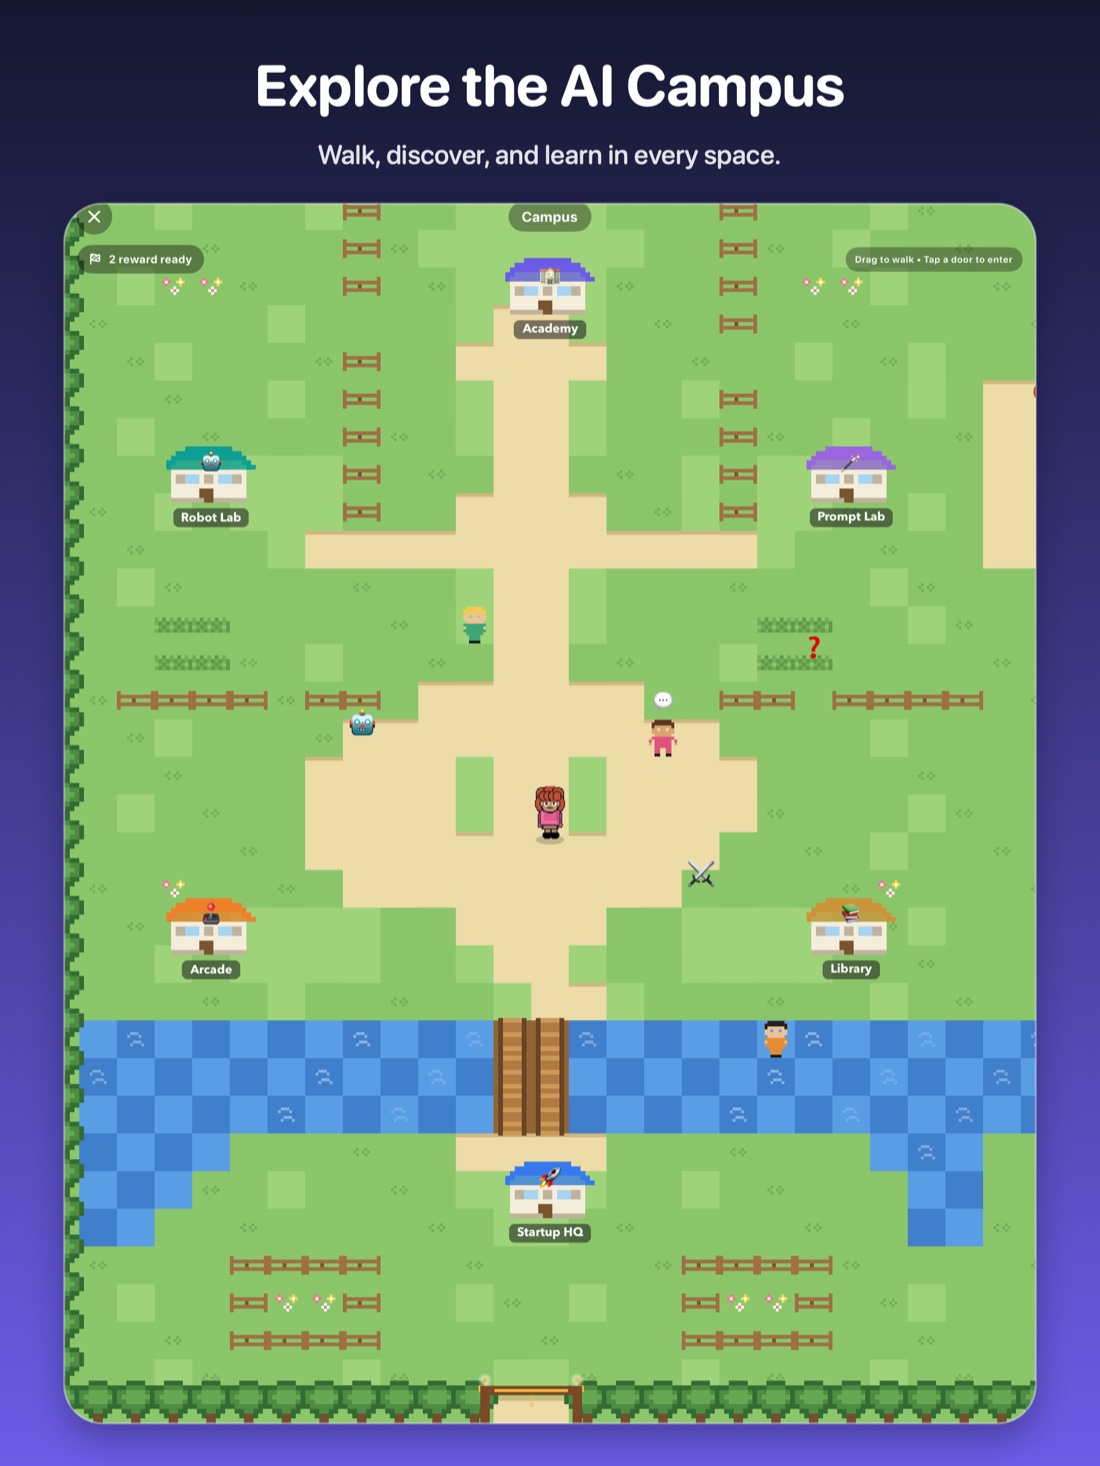
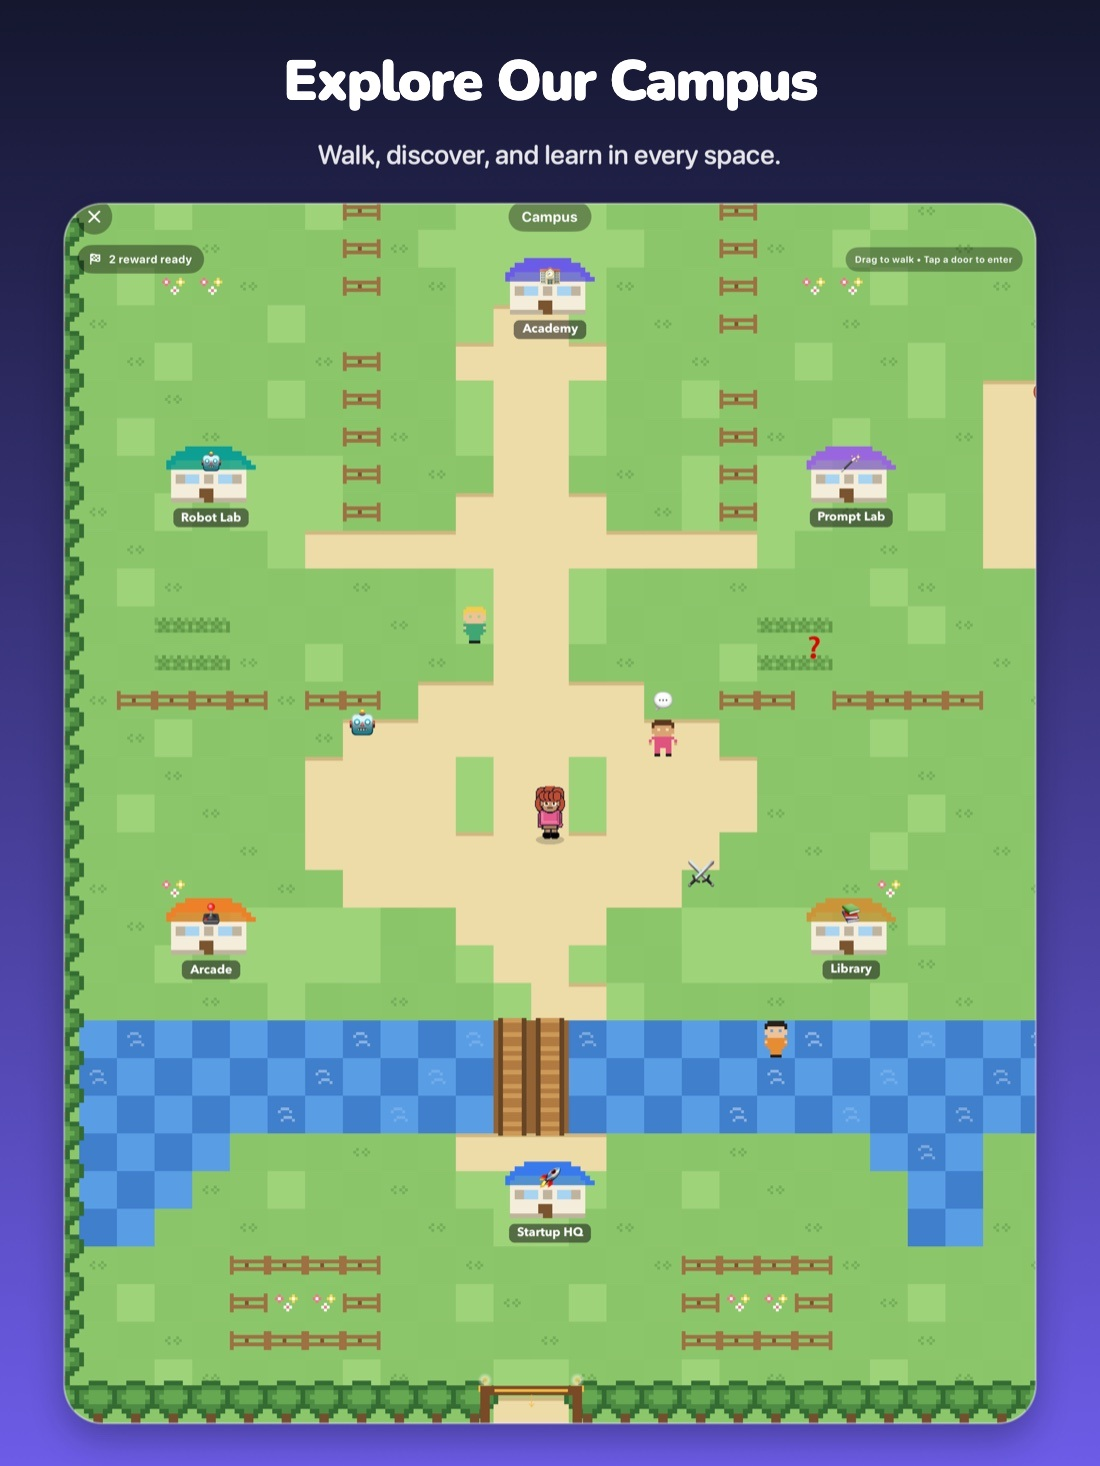
Use Explore Our Campus wording

Changed region(s): [[0.2164, 0.0307, 0.7727, 0.0921]]

diff --git a/index.html b/index.html
@@ -109,7 +109,7 @@
           </div>
           <div class="hero-product-stage">
             <picture class="hero-product-campus">
-              <img src="assets/screenshots/campus/campus-ipad.jpg" alt="Vizancia AI Campus with an explorable map of the Academy, Robot Lab, Prompt Lab, Arcade, Library, and Startup HQ" width="1100" height="1466" fetchpriority="high" decoding="async">
+              <img src="assets/screenshots/campus/campus-ipad.jpg" alt="Vizancia Campus with an explorable map of the Academy, Robot Lab, Prompt Lab, Arcade, Library, and Startup HQ" width="1100" height="1466" fetchpriority="high" decoding="async">
             </picture>
             <picture class="hero-product-learn">
               <img src="assets/screenshots/campus/learn-ipad.jpg" alt="Vizancia guided AI learning path with lesson nodes and progress" width="900" height="1200" decoding="async">
@@ -215,7 +215,7 @@
           <div class="campus-entry-copy">
             <h2>Walk, discover, and learn in every space.</h2>
             <p>Vizancia 3.5 turns learning into a walkable AI Campus. Move your avatar, enter buildings, meet the campus crew, and choose whether to learn, practise, build, or play next.</p>
-            <a class="pro-button" href="campus.html">Explore the AI Campus</a>
+            <a class="pro-button" href="campus.html">Explore Our Campus</a>
           </div>
           <div class="campus-route-grid" aria-label="How the Vizancia Campus works">
             <div><span>01</span><strong>Roam</strong><p>Drag to walk around the grounds and discover what is nearby.</p></div>